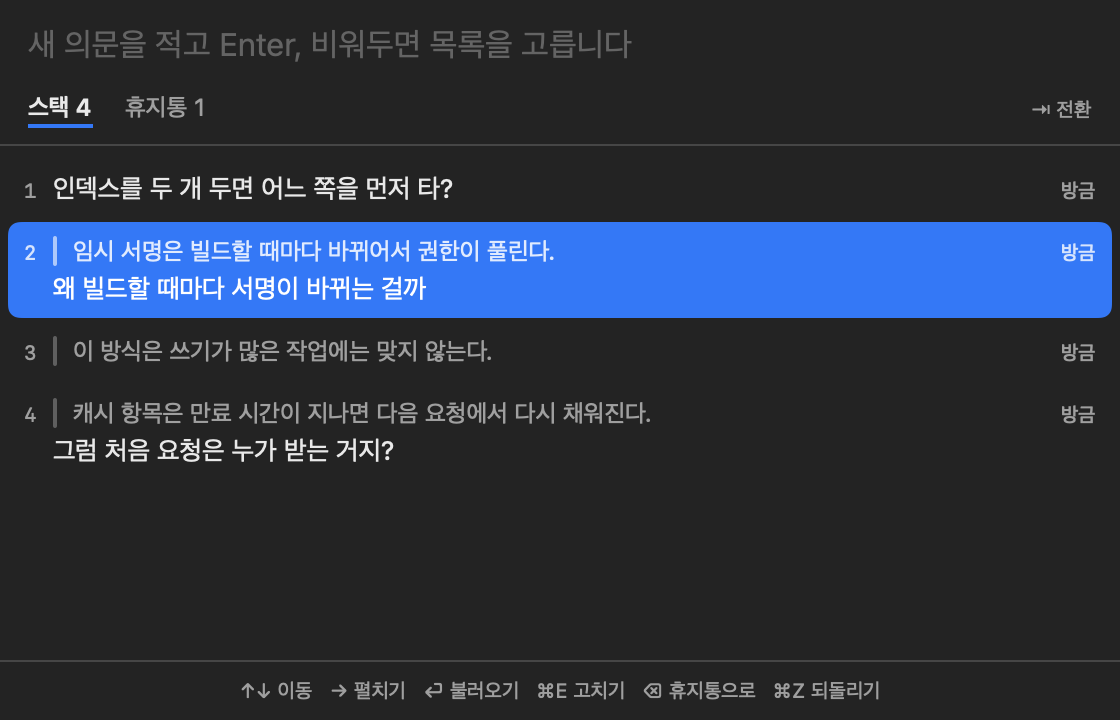
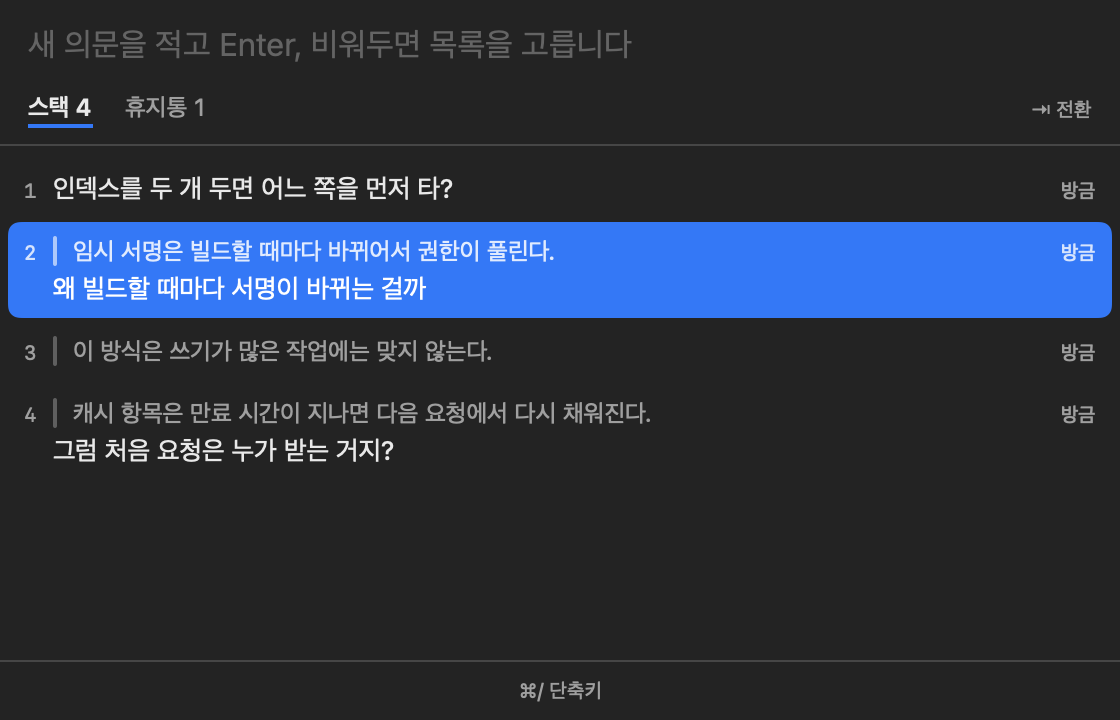
docs: 영어 README 에 영어 화면 그림, 한국어 그림도 새 화면으로

Changed region(s): [[0.2188, 0.9472, 0.7812, 0.9778]]

diff --git a/README.en.md b/README.en.md
@@ -8,9 +8,9 @@ When you talk with an AI or read through a document, questions and fixes pile up
 
 It borrows the hold feature from Tetris, except it keeps a whole stack instead of a single slot. Like a clipboard manager, its shortcuts work in any app, so it behaves the same in the terminal, the browser, and everywhere else.
 
-The app is available in Korean and English and follows your system language by default. The screenshots below show the Korean interface, and the settings table lists the Korean labels next to their English names.
+The app speaks English and Korean and follows your system language by default.
 
-<p align="center"><img src="docs/list.png" width="560" alt="The list window. Each entry shows the held sentence above your question"></p>
+<p align="center"><img src="docs/en/list.png" width="560" alt="The list window. Each entry shows the held sentence above your question"></p>
 
 | About | How to use | Reference |
 |---|---|---|
@@ -40,9 +40,9 @@ On first launch it asks for Accessibility permission, which lets an app press ke
 
 ## Holding a question
 
-<p align="center"><img src="docs/compose.png" width="460" alt="The compose window. The held sentence on top, a box for your question below"></p>
+<p align="center"><img src="docs/en/compose.png" width="460" alt="The compose window. The held sentence on top, a box for your question below"></p>
 
-Select the sentence that caught your eye and press `⌃⇧H` to open the compose window (의문 보관). The held sentence sits on top, with a box for your question below. Type your question and press Enter, and the sentence and question are stacked as one entry and the window closes. Press `⇧⏎` for a new line.
+Select the sentence that caught your eye and press `⌃⇧H` to open the compose window. The held sentence sits on top, with a box for your question below. Type your question and press Enter, and the sentence and question are stacked as one entry and the window closes. Press `⇧⏎` for a new line.
 
 If nothing is selected you write just a question, and if you leave the question empty the sentence alone is kept. `esc` closes without saving. If you click another app while writing, the window steps aside but keeps what you typed, and `⌃⇧H` picks up where you left off.
 
@@ -56,19 +56,19 @@ Press `⌃⇧L` to open the list window. Each entry shows the held sentence dimm
 your question
 ```
 
-HoldStack only pastes into text inputs. If you last clicked a web page body or a Finder window, you hear a beep and the question stays in the list; click an input box and pick it again. To paste the top question without opening the list, press `⌃⇧P`.
+HoldStack only pastes into text fields. If you last clicked a web page body or a Finder window, you hear a beep and the question stays in the list; click an input box and pick it again. To paste the top question without opening the list, press `⌃⇧P`.
 
 Press `→` to read a long question in full. The list steps aside and that question fills the window; `↑` `↓` move to the previous and next ones, and `←` brings the list back. You can also type a new question in the box at the top of the list window and press Enter to stack it.
 
 ## Editing
 
-<p align="center"><img src="docs/edit.png" width="560" alt="Editing a question in the full view. The question has turned into a bordered input box"></p>
+<p align="center"><img src="docs/en/edit.png" width="560" alt="Editing a question in the full view. The question has turned into a bordered input box"></p>
 
-To polish a question, select it in the list and press `⌘E`. Right where you were looking, the question turns into a bordered input box marked 질문 고치는 중 ("editing question"). Press Enter and the edited question appears in place; `esc` cancels just the edit. The held sentence is a quote from the original, so it can't be edited.
+To polish a question, select it in the list and press `⌘E`. Right where you were looking, the question turns into a bordered input box marked "Editing question". Press Enter and the edited question appears in place; `esc` cancels just the edit. The held sentence is a quote from the original, so it can't be edited.
 
 ## Trash and undo
 
-Questions you take out or delete go to the trash (휴지통) instead of disappearing. The trash keeps the latest 10 and drops the oldest when it overflows. Press `⇥` or click 휴지통 to see it, and press Enter there to put a question back on top of the stack.
+Questions you take out or delete go to the Trash instead of disappearing. The trash keeps the latest 10 and drops the oldest when it overflows. Press `⇥` or click Trash to see it, and press Enter there to put a question back on top of the stack.
 
 `⌘Z` undoes your actions one at a time, starting from the latest: taking out, deleting, editing, and anything done in the trash. Clearing everything comes back in one step. The undo history keeps as many steps as the trash does and survives restarting the app.
 
@@ -96,21 +96,21 @@ Press `⌘/` in the list window to see all of these on one card.
 
 ## Settings
 
-Press `⌘,` in the list window, or choose 설정… (Settings…) from the menu bar icon. Values in parentheses are the defaults on a fresh install.
+Press `⌘,` in the list window, or choose Settings… from the menu bar icon. Values in parentheses are the defaults on a fresh install.
 
-| Setting (Korean label) | What it does |
+| Setting | What it does |
 |---|---|
-| Language, 언어 (follow system) | Pin the app to 한국어 or English. It shows English unless your system language is Korean |
-| Launch at login, 로그인할 때 자동으로 실행 (off) | Adds HoldStack to your login items. You may need to allow it in System Settings → General → Login Items the first time |
-| Show count in the menu bar, 메뉴 막대에 보관 개수 표시 (on) | Shows or hides the number next to the icon |
-| Opacity, 투명도 (95%) | Lets the list window show through, from 30% to 100% |
-| Items kept in the trash, 휴지통에 둘 개수 (10) | Type a number from 5 to 50. The undo history follows the same number, and lowering it doesn't delete anything right away |
-| Close after pasting, 불러온 뒤 창 닫기 (on) | Turn off to keep the list window open after pasting |
-| Paste only into text inputs, 입력칸이 아니면 붙여넣지 않기 (on) | Turn off to paste wherever the focus is |
-| Close when another app is clicked, 다른 앱을 누르면 창 닫기 (on) | Turn off to keep the window up while you use other apps |
-| Close on desktop switch, 데스크탑을 옮기면 창 닫기 (on) | Turn off to have the window follow you across desktops |
-| When expanding with →, → 로 펼칠 때 (full view) | Switch to 그 자리에서 펼치기 ("expand in place") to grow just that row instead of covering the list |
-| Font size, 글자 크기 (sentence 12pt, question 13pt) | Set the held sentence and your question separately, from 10pt to 24pt |
-| Global shortcuts, 전역 단축키 | Click a button and press a new combination to change it. Turn one off with the switch next to it to free that combination for other apps |
+| Language (follow system) | Pin the app to English or 한국어. It shows English unless your system language is Korean |
+| Launch at login (off) | Adds HoldStack to your login items. You may need to allow it in System Settings → General → Login Items the first time |
+| Show count in menu bar (on) | Shows or hides the number next to the icon |
+| Opacity (95%) | Lets the list window show through, from 30% to 100% |
+| Items kept in Trash (10) | Type a number from 5 to 50. The undo history follows the same number, and lowering it doesn't delete anything right away |
+| Close after pasting (on) | Turn off to keep the list window open after pasting |
+| Paste only into text fields (on) | Turn off to paste wherever the focus is |
+| Close when another app is clicked (on) | Turn off to keep the window up while you use other apps |
+| Close on desktop switch (on) | Turn off to have the window follow you across desktops |
+| When expanding with → (Show full view) | Switch to "Expand in place" to grow just that row instead of covering the list |
+| Font size (Held sentence 12pt, Your question 13pt) | Set the held sentence and your question separately, from 10pt to 24pt |
+| Global shortcuts | Click a button and press a new combination to change it. Turn one off with the switch next to it to free that combination for other apps |
 
 A shortcut must include `⌃`, `⌥`, or `⌘`, and editing shortcuts every app relies on, such as `⌘C` and `⌘V`, can't be chosen.
